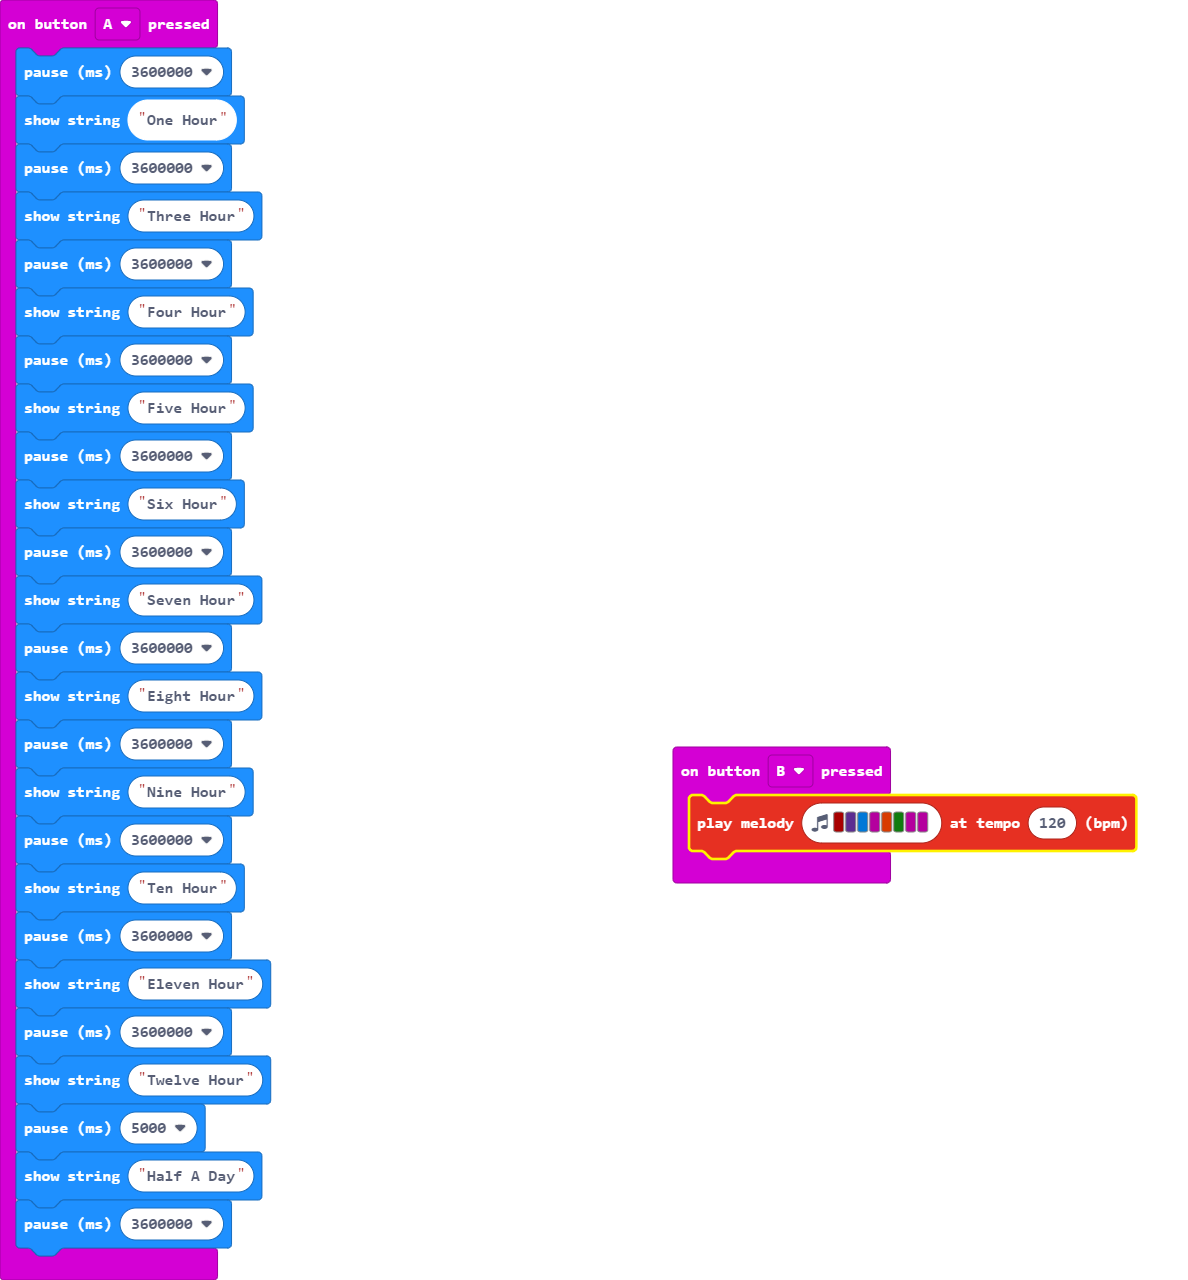
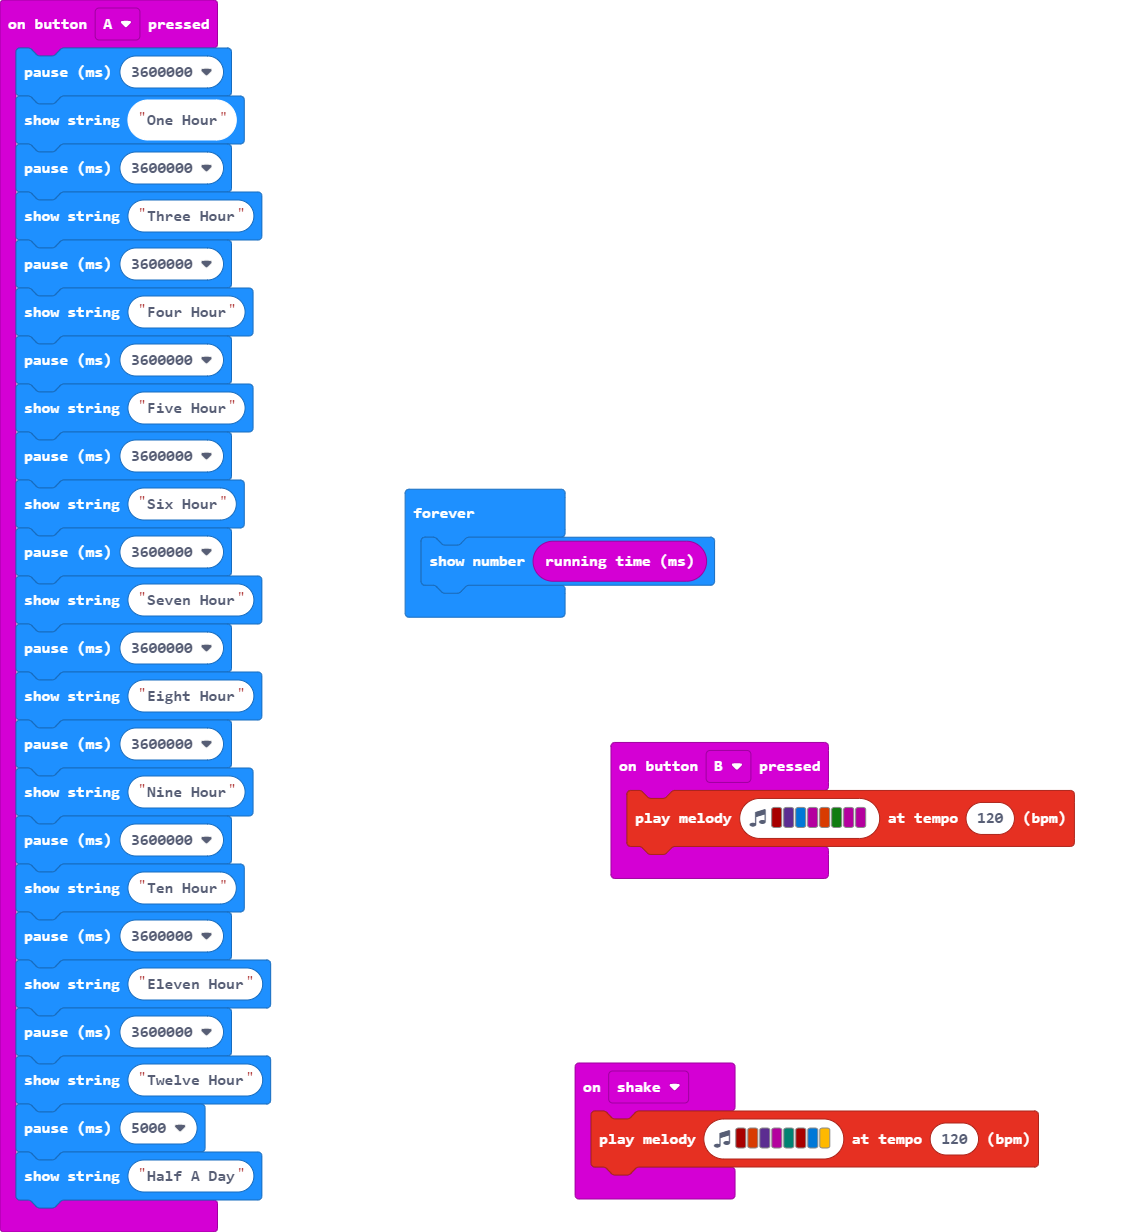
H GASCTEACSH J ASKJD  JSADFGHDAS  FGASH GHCSAJHHCGADKJ DAFCXMV  WJHEG YGVFZD JHF CJFHG HSEGG HDHJVB BAETY QWDULTISDFJH E STUD YKAW JK DJA UYDG ADWGYU F WJHDAGHD ASGHD TYW AYSDHADGUAWBJHSHG WYAGDHSA GHDW GAKD GHSAXH DG AGH WYDGH UEGSH LOE PA OSDFHGAEWUYK SAD AUHLA OL ASDUAL KJL OAWSOLLO AOLWAO L OL O

diff --git a/main.ts b/main.ts
@@ -23,8 +23,13 @@ input.onButtonPressed(Button.A, function () {
     basic.showString("Twelve Hour")
     basic.pause(5000)
     basic.showString("Half A Day")
-    basic.pause(3600000)
 })
 input.onButtonPressed(Button.B, function () {
     music.playMelody("C5 D E C B G C C ", 120)
+})
+input.onGesture(Gesture.Shake, function () {
+    music.playMelody("C5 B D C F C5 E A ", 120)
+})
+basic.forever(function () {
+    basic.showNumber(input.runningTime())
 })
